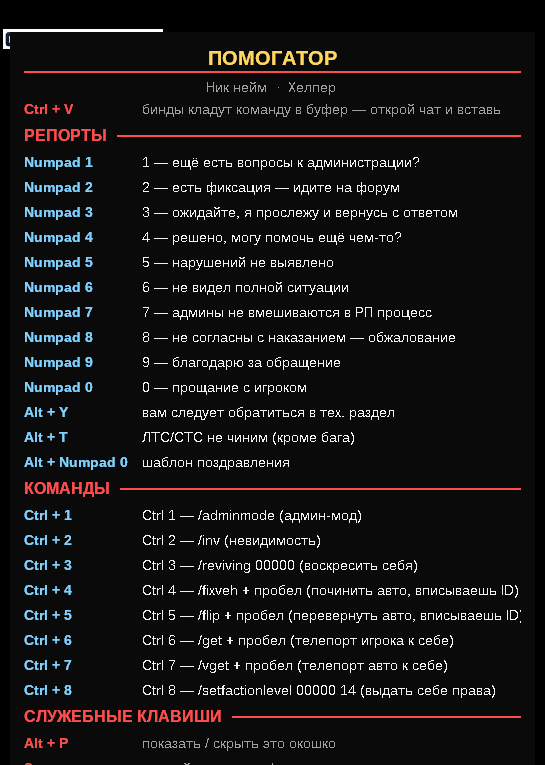
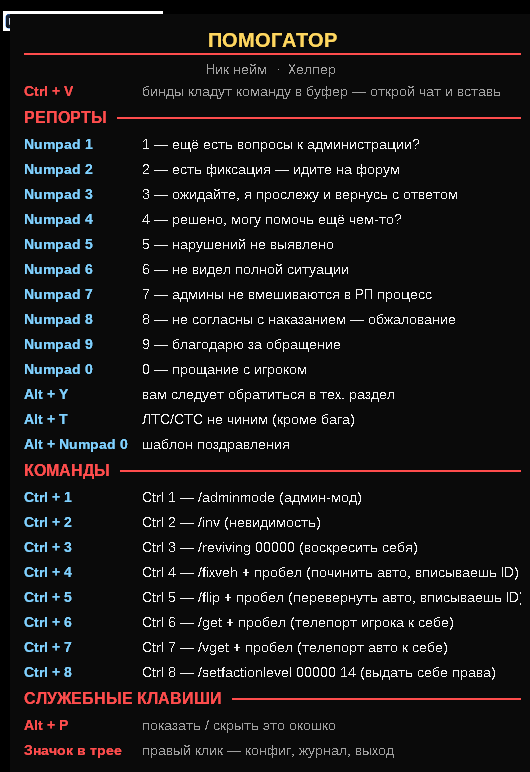
Обновление до 1.1

Changed region(s): [[0.0, 0.0, 0.966, 1.0]]

diff --git a/source/main.go b/source/main.go
@@ -17,7 +17,7 @@ import (
 
 const (
 	appName    = "Помогатор"
-	appVersion = "1.0"
+	appVersion = "1.1"
 )
 
 var (
@@ -98,6 +98,7 @@ func singleInstance() bool {
 const (
 	wmAppReload   = 0x8000 + 1
 	wmAppTrayMenu = 0x8000 + 5 // показать меню трея (для снимка/тестов)
+	wmAppSetPause = 0x8000 + 6 // поставить/снять паузу (для тестов)
 	wmAppQuit     = 0x8000 + 7 // корректный выход в главном потоке
 )
 
@@ -179,6 +180,9 @@ func performAction(kind int, b *Bind, name string) {
 	switch kind {
 	case actBind:
 		if b == nil {
+			return
+		}
+		if bindsPaused() {
 			return
 		}
 		go func() {
@@ -342,6 +346,15 @@ func wndProc(hwnd uintptr, msg uint32, wparam, lparam uintptr) uintptr {
 	case wmAppTrayMenu:
 		trayShowMenu()
 		return 0
+	case wmAppSetPause:
+		setBindsPaused(wparam != 0)
+		logf("пауза переключена вручную: бинды на паузе = %v", bindsPaused())
+		ov.rebuild(curCfg)
+		if ov.visible {
+			ov.show()
+		}
+		trayUpdateTip()
+		return 0
 	case wmAppQuit:
 		quitAppNow()
 		return 0
@@ -446,6 +459,10 @@ func main() {
 	case "shot":
 		go func() {
 			sleep(2000)
+			if os.Getenv("POMOGATOR_PAUSE") != "" {
+				postMessage(ov.hwnd, wmAppSetPause, 1, 0)
+				sleep(800)
+			}
 			postMessage(ov.hwnd, wmAppTrayMenu, 0, 0)
 			sleep(1500)
 			dir := filepath.Join(filepath.Dir(exePath()), "diagnostika")
@@ -453,6 +470,37 @@ func main() {
 			captureScreenPNG(filepath.Join(dir, "tray_menu.png"))
 			logf("снимок меню трея сделан")
 			sleep(500)
+			quitApp()
+		}()
+	case "pause":
+		go func() {
+			sleep(1500)
+			logf("--- тест паузы ---")
+			postMessage(ov.hwnd, wmAppSetPause, 1, 0) // ставим паузу
+			sleep(800)
+			copyTextWithRetry("МЕТКА", 0, false) // метка, чтобы увидеть подмену буфера
+			sleep(300)
+			var target *Bind
+			for i := range curCfg.Binds {
+				if curCfg.Binds[i].Hotkey.Pretty == "Ctrl + 7" {
+					target = &curCfg.Binds[i]
+					break
+				}
+			}
+			if target == nil && len(curCfg.Binds) > 0 {
+				target = &curCfg.Binds[0]
+			}
+			// напрямую дёргаем выполнение бинда: оно должно быть заблокировано паузой
+			runBindCopy(curCfg, target)
+			sleep(500)
+			logf("на паузе в буфере: %q", getClipboardText())
+			postMessage(ov.hwnd, wmAppSetPause, 0, 0) // снимаем паузу
+			sleep(600)
+			runBindCopy(curCfg, target)
+			sleep(500)
+			logf("после снятия паузы в буфере: %q", getClipboardText())
+			setBindsPaused(false)
+			sleep(300)
 			quitApp()
 		}()
 	case "copy":

diff --git a/source/tray.go b/source/tray.go
@@ -17,12 +17,13 @@ const (
 
 	wmTray = 0x8000 + 2 // WM_APP + 2 — сообщения от значка в трее
 
-	trayMenuToggle  = 1
-	trayMenuReload  = 2
-	trayMenuOpenCfg = 3
-	trayMenuOpenDir = 4
-	trayMenuExit    = 5
-	trayMenuLog     = 6
+	trayMenuPause   = 1
+	trayMenuToggle  = 2
+	trayMenuReload  = 3
+	trayMenuOpenCfg = 4
+	trayMenuOpenDir = 5
+	trayMenuExit    = 6
+	trayMenuLog     = 7
 )
 
 var (
@@ -78,6 +79,9 @@ func trayIconHandle() uintptr {
 
 func trayTip() string {
 	tip := "Помогатор — биндер для админки"
+	if bindsPaused() {
+		tip = "ПОМОГАТОР — ПАУЗА, бинды не работают"
+	}
 	if curCfg != nil && curCfg.Settings.ToggleOK {
 		tip += "\nПодсказки: " + curCfg.Settings.ToggleHint.Pretty
 	}
@@ -208,9 +212,14 @@ func trayShowMenu() {
 	if ov != nil && ov.visible {
 		toggleText = "Скрыть подсказки"
 	}
+	pauseText := "Пауза (бинды не работают)"
+	if bindsPaused() {
+		pauseText = "Продолжить (бинды снова работают)"
+	}
+	appendMenuItem(hmenu, mfString, trayMenuPause, pauseText)
 	appendMenuItem(hmenu, mfString, trayMenuToggle, toggleText)
 	appendMenuItem(hmenu, mfSeparator, 0, "")
-	appendMenuItem(hmenu, mfString, trayMenuReload, "Обновить")
+	appendMenuItem(hmenu, mfString, trayMenuReload, "Обновить binds.ini")
 	appendMenuItem(hmenu, mfString, trayMenuOpenCfg, "Открыть binds.ini")
 	appendMenuItem(hmenu, mfString, trayMenuOpenDir, "Открыть папку программы")
 	appendMenuItem(hmenu, mfString, trayMenuLog, "Показать журнал (pomogator.log)")
@@ -227,11 +236,25 @@ func trayShowMenu() {
 	pPostMessageW.Call(trayHwnd, wmNull, 0, 0)
 
 	switch int32(cmd) {
+	case trayMenuPause:
+		paused := toggleBindsPause()
+		if paused {
+			logf("меню трея: пауза — бинды не срабатывают")
+			trayBalloon("Пауза", "Бинды не работают. Включить обратно: правый клик по значку → «Продолжить».", false)
+		} else {
+			logf("меню трея: пауза снята — бинды работают")
+			trayBalloon("Бинды снова работают", "", false)
+		}
+		ov.rebuild(curCfg) // в окошке появится пометка про паузу
+		if ov.visible {
+			ov.show()
+		}
+		trayUpdateTip()
 	case trayMenuToggle:
 		ov.toggle()
 		trayUpdateTip()
 	case trayMenuReload:
-		logf("меню трея: перечитать конфиг")
+		logf("меню трея: обновить binds.ini")
 		reloadConfig()
 	case trayMenuOpenCfg:
 		openConfigFile()

diff --git a/source/pause.go b/source/pause.go
@@ -1,0 +1,32 @@
+package main
+
+import "sync/atomic"
+
+// ---------------------------------------------------------------------------
+//  Пауза.
+//
+//  Пока пауза включена, бинды не срабатывают: нажатие проходит мимо, как
+//  обычное нажатие клавиши. Сама программа при этом работает — значок на
+//  месте, окошко с подсказками открывается, меню доступно.
+//
+//  Выключить паузу — правый клик по значку → «Продолжить».
+// ---------------------------------------------------------------------------
+
+var bindsPausedFlag atomic.Bool
+
+// bindsPaused сообщает, стоят ли бинды на паузе.
+func bindsPaused() bool {
+	return bindsPausedFlag.Load()
+}
+
+// setBindsPaused включает или выключает паузу.
+func setBindsPaused(v bool) {
+	bindsPausedFlag.Store(v)
+}
+
+// toggleBindsPause переключает паузу и возвращает новое состояние.
+func toggleBindsPause() bool {
+	next := !bindsPaused()
+	bindsPausedFlag.Store(next)
+	return next
+}

diff --git a/source/pause_test.go b/source/pause_test.go
@@ -1,0 +1,23 @@
+package main
+
+import "testing"
+
+func TestPauseStartsOffAndToggles(t *testing.T) {
+	setBindsPaused(false)
+	if bindsPaused() {
+		t.Fatal("после запуска бинды должны работать, а не стоять на паузе")
+	}
+	if !toggleBindsPause() {
+		t.Error("первое нажатие «Пауза» должно ставить на паузу")
+	}
+	if !bindsPaused() {
+		t.Error("пауза не включилась")
+	}
+	if toggleBindsPause() {
+		t.Error("второе нажатие «Продолжить» должно снимать паузу")
+	}
+	if bindsPaused() {
+		t.Error("пауза не снялась")
+	}
+	setBindsPaused(false)
+}

diff --git a/source/copy.go b/source/copy.go
@@ -50,6 +50,13 @@ func copyTextWithRetry(text string, owner uintptr, noHistory bool) bool {
 
 // runBindCopy — выполнение бинда в режиме copy
 func runBindCopy(cfg *Config, b *Bind) {
+	// единственная точка, через которую идёт копирование: здесь пауза
+	// гарантированно останавливает бинды, откуда бы вызов ни пришёл
+	if bindsPaused() {
+		logf("бинд %s пропущен: бинды на паузе", b.Hotkey.Pretty)
+		return
+	}
+
 	hwnd := getForegroundWindow()
 	title := ""
 	if hwnd != 0 {

diff --git a/source/overlay.go b/source/overlay.go
@@ -100,6 +100,12 @@ func (o *overlay) rebuild(cfg *Config) {
 	if len(subParts) > 0 {
 		content = append(content, ovRow{kind: lkSub, lines: []string{strings.Join(subParts, "  ·  ")}})
 	}
+	if bindsPaused() {
+		content = append(content, ovRow{
+			kind: lkNote, key: "ПАУЗА",
+			lines: []string{"бинды не работают — включить: правый клик по значку"},
+		})
+	}
 	content = append(content, ovRow{
 		kind: lkNote, key: "Ctrl + V",
 		lines: []string{"бинды кладут команду в буфер — открой чат и вставь"},

diff --git a/source/hook.go b/source/hook.go
@@ -158,7 +158,7 @@ func lowLevelKeyboardProc(nCode uintptr, wparam, lparam uintptr) uintptr {
 			// клавиша не «залипла» навсегда
 			delete(swallowedKs, vk)
 		}
-		if !injected {
+		if !injected && !bindsPaused() {
 			mods := modsNow()
 			if t := matchTrigger(mods, vk); t != nil {
 				postMessage(ov.hwnd, wmAppRunTrigger, uintptr(t.idx), 0)

diff --git a/CHANGELOG.md b/CHANGELOG.md
@@ -1,30 +1,26 @@
-# История версий
+# Что менялось
 
-## 1.0 — первый публичный релиз
+## 1.1
 
-Биндер-буфер для админки GTA (MTA / NextRP).
+- В меню трея появилась **пауза**: бинды не срабатывают, программа работает дальше.
+  Пункт переключается между «Пауза» и «Продолжить», на паузе в окошке подсказок
+  висит пометка, а в подсказке значка написано «ПАУЗА».
+- Пункт «Обновить» переименован в «Обновить binds.ini» — чтобы было понятно,
+  что именно обновляется.
 
-**Что делает**
-- бинд кладёт готовую команду в буфер обмена; вставку `Ctrl+V` и `Enter` делает человек;
-- плашка «СКОПИРОВАНО В БУФЕР» и звук (каждое отключается в конфиге отдельно);
-- команды со слэшем — вставляются и в чат, и в репорт;
-- `{space}` на конце (`/get{space}` → `/get `), переменные `{my_id}`, `{Пол}`, `{nick}`, `{rank}`;
-- окошко с подсказками (`Alt+P`), значок в трее;
-- конфиг `binds.ini` правится Блокнотом, «Обновить» в трее перечитывает его без перезапуска.
+## 1.0
 
-**Чего нет**
-- автоматической печати в игру (`SendInput` не вызывается ни разу);
-- драйверов, внедрения в игру, прав администратора;
-- настройки `Win+V`: команды **не попадают** в историю буфера и в облако.
+Первый релиз, который выложил.
 
-**Подтверждение бинда настраивается по отдельности**
-- `copy_toast = true` — плашка «СКОПИРОВАНО В БУФЕР» (по умолчанию включена);
-- `copy_beep = true` — звук (по умолчанию включён);
+- Бинд кладёт команду в буфер. Вставку и отправку делаешь сам.
+- 8 команд на Ctrl+1..8 и 13 заготовок для репортов на нумпаде и Alt.
+- Команды со слэшем, вставляются и в чат, и в репорт.
+- `{space}` в конце — чтобы после команды сразу стоял пробел под ID.
+- Переменные `{my_id}`, `{Пол}`, `{nick}`, `{rank}`.
+- Плашка «скопировано» и звук. Можно выключить по отдельности.
+- В историю `Win+V` ничего не пишется.
+- Окошко с подсказками на `Alt+P`, значок в трее.
+- Конфиг `binds.ini` правится блокнотом, «Обновить» в трее перечитывает его
+  без перезапуска.
 
-любую из двух можно выключить, вторая продолжит работать.
-
-**Настройки `[settings]`:** `nick`, `rank`, `my_id`, `copy_toast`, `copy_toast_ms`,
-`copy_beep`, `copy_no_history`, оформление окошка, `toggle_hint`, `only_when_window`,
-`tray_notify_on_start`.
-
-**Бинды:** `key` / `group` / `hint` / `send`.
+Драйверов нет, `SendInput` не используется, права администратора не нужны.

diff --git a/docs/remove-interception.md b/docs/remove-interception.md
@@ -1,12 +1,11 @@
 # Как удалить драйвер Interception
 
-Если раньше ты ставил **Interception** (например, для AutoHotInterception, «мастера подбора»
-из старых версий Помогатора или другого биндера) — его лучше удалить.
+Если раньше ставил **Interception** (например, для AutoHotInterception или другого биндера) —
+лучше снести. У меня из-за него игра кикала с `SD #4 BOT`.
 
-Причина: Interception ставится как **фильтр-драйвер клавиатуры и мыши** (`keyboard.sys`,
-`mouse.sys`, издатель **Oblita**). Его находят и блокируют античиты многих игр, в том числе
-встроенный античит MTA (кик `SD #4 BOT` / `AC #4`). Причём драйвер виден античиту независимо
-от того, запущен ли сам биндер.
+Interception — это **фильтр-драйвер клавиатуры и мыши** (`keyboard.sys`, `mouse.sys`,
+издатель **Oblita**). Античиты его видят и не любят, причём независимо от того, запущен
+сам биндер или нет: драйвер стоит в системе и всё.
 
 ---
 
